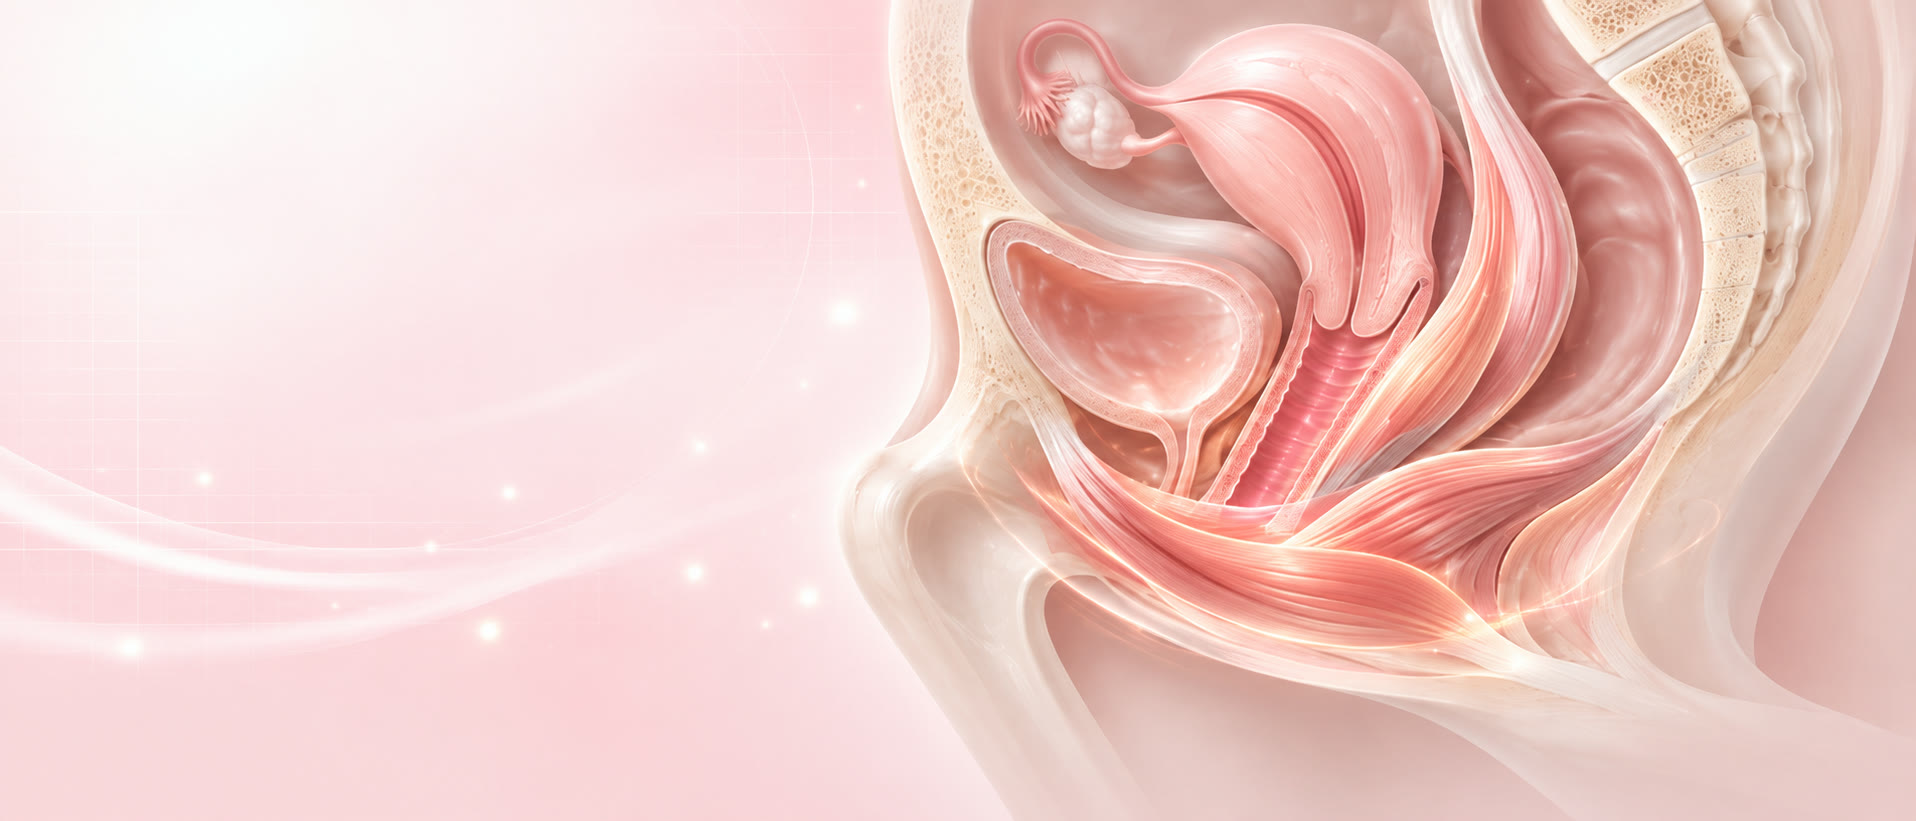
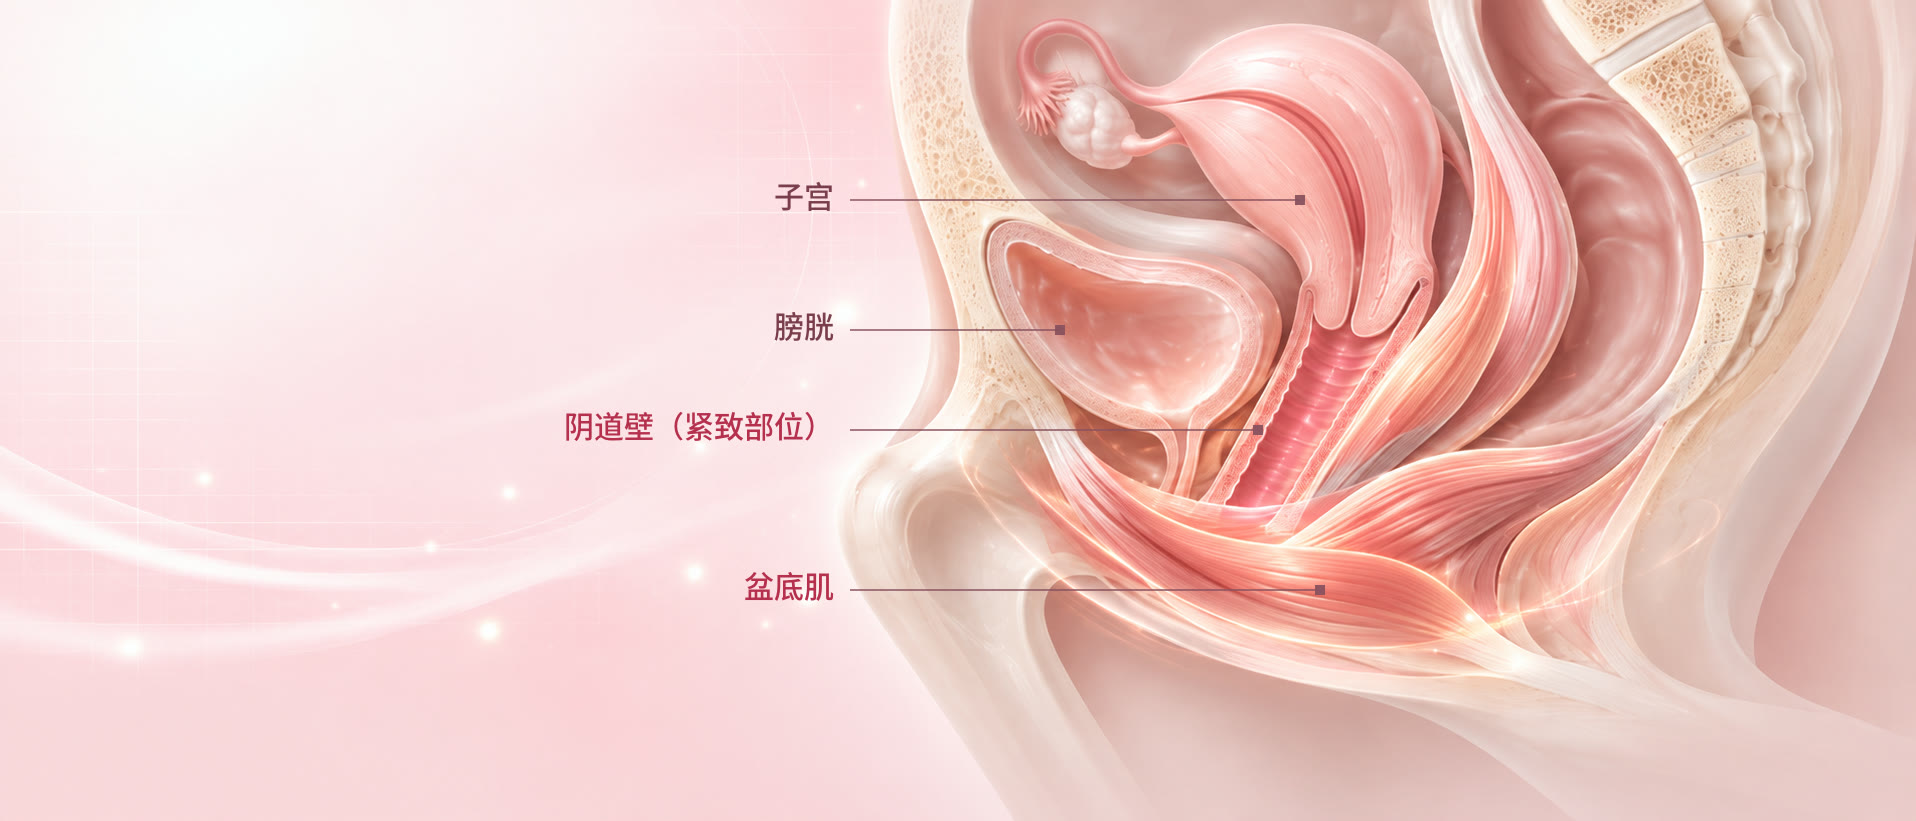
feat: kmedispring.com 女性私密 해부도에 부위 이름 4개(子宫·膀胱·阴道壁（紧致部位）·盆底肌) + 그림 아래 캡션 — 히어로 캡션(heroCaption) 지원

diff --git a/src/skins/editorial/topics.ts b/src/skins/editorial/topics.ts
@@ -41,6 +41,8 @@ export interface Topic {
   /** 페이지 맨 위에 사진·영상 두 칸을 같은 높이로(줄기세포 Immuncell-LC). 있으면 대표 사진 대신 이걸 쓴다. */
   /** 페이지 맨 위 전용 사진(타일엔 안 씀) — 잘리지 않게 전체를 보여준다 */
   heroImage?: string
+  /** heroImage 아래 한 줄 설명 */
+  heroCaption?: string
   heroSplit?: { image: string; media: { type: 'image' | 'video'; src: string }; ratios: [number, number]; caption?: string; credit?: string }
   /** 카테고리 페이지 카드용 한두 줄 요약 */
   summary: string
@@ -225,7 +227,7 @@ function stemCellTopics(lang: LangCode): Topic[] {
 }
 
 type SimpleKeyword = {
-  id: string; title: LocalizedText; image?: string; heroImage?: string; description: LocalizedText
+  id: string; title: LocalizedText; image?: string; heroImage?: string; heroCaption?: LocalizedText; description: LocalizedText
   directionsLabel: LocalizedText; directions: LocalizedText[]; note: LocalizedText; noteStyle?: 'info' | 'warning'
 }
 function simpleTopics(list: SimpleKeyword[], lang: LangCode): Topic[] {
@@ -236,7 +238,7 @@ function simpleTopics(list: SimpleKeyword[], lang: LangCode): Topic[] {
       { kind: 'list', title: L(k.directionsLabel, lang), items: k.directions.map((d) => L(d, lang)) },
       L(k.note, lang) && { kind: 'note', text: splitParas(L(k.note, lang)), tone: k.noteStyle === 'warning' ? 'warning' : 'info' },
     ]
-    return { id: k.id, title: L(k.title, lang), image: k.image, heroImage: k.heroImage, summary: summarize(desc, lang), blocks: blocks.filter(nonEmpty) }
+    return { id: k.id, title: L(k.title, lang), image: k.image, heroImage: k.heroImage, heroCaption: L(k.heroCaption, lang) || undefined, summary: summarize(desc, lang), blocks: blocks.filter(nonEmpty) }
   })
 }
 

diff --git a/src/data/womensHealthKeywords.ts b/src/data/womensHealthKeywords.ts
@@ -55,6 +55,8 @@ export interface WomensHealthKeyword {
   image?: string
   /** kmedispring.com 세부 페이지 맨 위 전용 사진(타일엔 안 씀) — 잘리지 않게 전체를 보여준다. */
   heroImage?: string
+  /** heroImage 아래 한 줄 설명 */
+  heroCaption?: LocalizedText
   /** Gradient tone to use when `image` is omitted (stem-cell page palette). Defaults to 'pink'. */
   tileGradient?: 'pink' | 'purple' | 'mint'
   description: LocalizedText
@@ -147,6 +149,10 @@ export const WOMENS_HEALTH_KEYWORDS: WomensHealthKeyword[] = [
     id: 'womens-intimate-health',
     // 여성 골반 옆 단면 3D 해부도 — 질 벽 근육층·골반저근(빛나는 부분) 지지 구조 설명, 비노출 일러스트
     heroImage: '/category-tiles/women/womens-intimate-health-hero.jpg',
+    heroCaption: {
+      zh: '女性盆腔侧面示意图 · 阴道壁肌层与盆底肌是私密紧致和产后恢复关注的部位',
+      en: 'Side-view illustration of the female pelvis · The vaginal wall muscles and pelvic floor are the focus of intimate tightening and postpartum recovery',
+    },
     image: '/category-tiles/women/womens-intimate-health.jpg',
     title: {
       zh: '女性私密',

diff --git a/src/skins/editorial/EditorialTopic.tsx b/src/skins/editorial/EditorialTopic.tsx
@@ -76,7 +76,10 @@ export default function EditorialTopic() {
           {topic.heroSplit.credit && <p className="ed-small ed-hero-split-credit">{topic.heroSplit.credit}</p>}
         </figure>
       ) : topic.heroImage ? (
-        <span className="image main ed-main-image ed-main-image--full"><img src={topic.heroImage} alt={topic.title} /></span>
+        <>
+          <span className={`image main ed-main-image ed-main-image--full${topic.heroCaption ? ' ed-main-image--captioned' : ''}`}><img src={topic.heroImage} alt={topic.heroCaption ?? topic.title} /></span>
+          {topic.heroCaption && <p className="ed-hero-caption">{topic.heroCaption}</p>}
+        </>
       ) : topic.video ? (
         <span className="image main ed-main-image">
           <video src={topic.video} poster={mainImage} autoPlay muted loop playsInline aria-label={topic.title} />

diff --git a/src/skins/editorial/editorial-pages.css b/src/skins/editorial/editorial-pages.css
@@ -20,6 +20,8 @@
 .ed-skin .ed-main-image { display: block; margin: 0 0 2.4em; border-radius: 10px; overflow: hidden; }
 .ed-skin .ed-main-image img, .ed-skin .ed-main-image video { width: 100%; max-height: 440px; object-fit: cover; object-position: center 30%; display: block; }
 @media (min-width: 737px) { .ed-skin .ed-main-image--tall img { max-height: 560px; } }
+.ed-skin .image.main.ed-main-image--captioned { margin-bottom: .8em; }
+.ed-skin #main p.ed-hero-caption { margin: 0 0 2.4em; font-size: .85em; color: #7a7f83; text-align: center; line-height: 1.6; }
 
 /* 짧은 문단이 연달아 오는 글(대본형 소개) — 원본 p 간격(2em)은 한 줄짜리엔 너무 벌어짐 */
 .ed-skin #main .ed-prose p { margin: 0 0 1em; font-size: 1.02em !important; line-height: 1.95 !important; }

diff --git a/src/data/mensHealthKeywords.ts b/src/data/mensHealthKeywords.ts
@@ -55,6 +55,8 @@ export interface MensHealthKeyword {
   image?: string
   /** kmedispring.com 세부 페이지 맨 위 전용 사진(타일엔 안 씀) — 잘리지 않게 전체를 보여준다. */
   heroImage?: string
+  /** heroImage 아래 한 줄 설명 */
+  heroCaption?: LocalizedText
   description: LocalizedText
   directionsLabel: LocalizedText
   directions: BigHealthBullet[]
